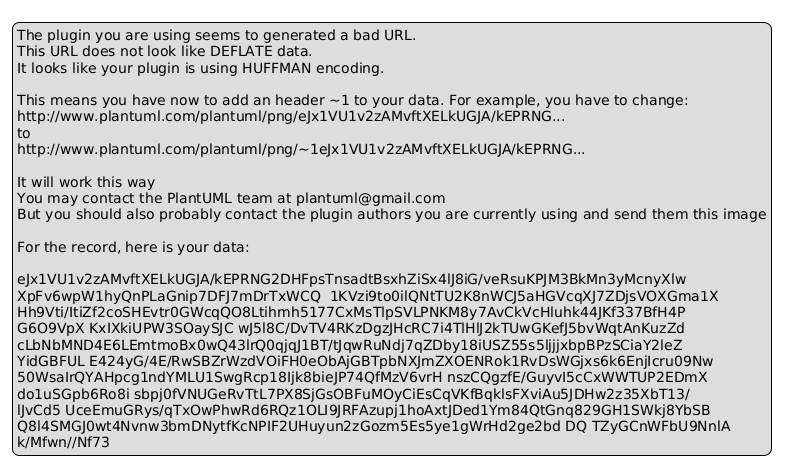
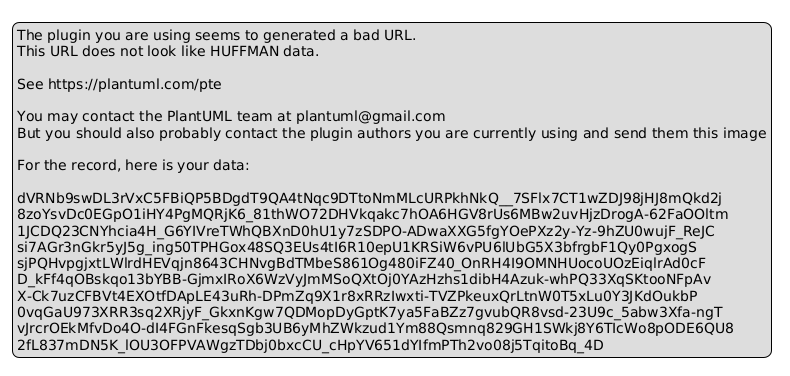
Add generated UML diagrams with fixed encoding

Changed region(s): [[0.0, 0.4973, 1.0, 0.9654], [0.0, 0.2048, 0.9722, 0.4681], [0.0, 0.0293, 0.9722, 0.1755]]

diff --git a/docs/render_diagrams.py b/docs/render_diagrams.py
@@ -1,48 +1,61 @@
 import os
 import requests
-import base64
 import zlib
-from PIL import Image
-import io
+import base64
+from pathlib import Path
+
+def ensure_directory(path):
+    """Ensure a directory exists"""
+    Path(path).mkdir(parents=True, exist_ok=True)
 
 def encode_puml(puml_content):
-    """Encode PlantUML content for web URL"""
-    compressed = zlib.compress(puml_content.encode('utf-8'))
+    """Encode PlantUML content for URL"""
+    # Remove @startuml and @enduml if present
+    puml_content = puml_content.replace("@startuml", "").replace("@enduml", "")
+    
+    # Compress using zlib
+    zlibbed = zlib.compress(puml_content.encode('utf-8'))
+    
+    # Remove zlib header and checksum
+    compressed = zlibbed[2:-4]
+    
+    # Encode to base64
     encoded = base64.b64encode(compressed)
-    return encoded.decode('utf-8')
-
-def get_diagram_url(puml_content):
-    """Get PlantUML web render URL"""
-    encoded = encode_puml(puml_content)
-    # Try multiple PlantUML servers
-    servers = [
-        "https://www.plantuml.com/plantuml/png/",
-        "https://plantuml.org/plantuml/png/",
-        "http://plantuml.org/plantuml/png/"
-    ]
     
-    for server in servers:
-        try:
-            url = f"{server}{encoded}"
-            # Test the URL first
-            response = requests.head(url)
-            if response.status_code == 200:
-                return url
-        except:
-            continue
+    # Make URL-safe
+    url_str = encoded.decode('ascii')
+    url_str = url_str.replace('+', '-')
+    url_str = url_str.replace('/', '_')
     
-    raise Exception("No PlantUML server is responding")
+    return url_str
 
-def verify_image(image_data):
-    """Verify that the image data is a valid PNG and not empty"""
+def render_diagram(puml_content, output_path):
+    """Render a single PlantUML diagram"""
     try:
-        img = Image.open(io.BytesIO(image_data))
-        width, height = img.size
-        # Check if image is not just a blank or error image
-        if width < 50 or height < 50:  # Minimum size threshold
+        # Encode the content
+        encoded = encode_puml(puml_content)
+        
+        # Add the required tilde prefix
+        encoded = "~1" + encoded
+        
+        # Get the PNG from PlantUML server
+        url = f"http://www.plantuml.com/plantuml/png/{encoded}"
+        print(f"Requesting: {url}")
+        
+        response = requests.get(url)
+        
+        if response.status_code == 200 and response.headers.get('content-type', '').startswith('image/'):
+            # Save the image
+            with open(output_path, 'wb') as f:
+                f.write(response.content)
+            return True
+        else:
+            print(f"Error: Server returned status {response.status_code}")
+            print(f"Response content: {response.text[:200]}...")
             return False
-        return True
-    except:
+            
+    except Exception as e:
+        print(f"Error: {str(e)}")
         return False
 
 def render_diagrams():
@@ -55,15 +68,14 @@ def render_diagrams():
         'state-diagrams'
     ]
     
-    # Create images directory if it doesn't exist
-    if not os.path.exists('docs/images'):
-        os.makedirs('docs/images')
+    # Create images directory
+    ensure_directory('docs/images')
     
     success_count = 0
     failure_count = 0
     
     for dir_name in diagram_dirs:
-        dir_path = f'docs/{dir_name}'
+        dir_path = os.path.join('docs', dir_name)
         if not os.path.exists(dir_path):
             print(f"Directory not found: {dir_path}")
             continue
@@ -74,37 +86,22 @@ def render_diagrams():
                 print(f"\nProcessing {puml_path}...")
                 
                 try:
-                    with open(puml_path, 'r') as f:
+                    # Read the PlantUML content
+                    with open(puml_path, 'r', encoding='utf-8') as f:
                         puml_content = f.read()
                     
-                    # Get diagram URL
-                    url = get_diagram_url(puml_content)
-                    print(f"Using URL: {url}")
+                    # Generate output path
+                    png_name = file.replace('.puml', '.png')
+                    output_path = os.path.join('docs/images', png_name)
                     
-                    # Download PNG with retries
-                    max_retries = 3
-                    for attempt in range(max_retries):
-                        try:
-                            response = requests.get(url, timeout=30)
-                            if response.status_code == 200 and verify_image(response.content):
-                                png_name = file.replace('.puml', '.png')
-                                png_path = os.path.join('docs/images', png_name)
-                                
-                                with open(png_path, 'wb') as f:
-                                    f.write(response.content)
-                                
-                                # Verify the written file
-                                if os.path.exists(png_path) and os.path.getsize(png_path) > 1000:
-                                    print(f"✓ Successfully generated {png_path}")
-                                    success_count += 1
-                                    break
-                            else:
-                                print(f"Attempt {attempt + 1}: Invalid image received")
-                        except Exception as e:
-                            print(f"Attempt {attempt + 1} failed: {str(e)}")
-                            if attempt == max_retries - 1:
-                                print(f"× Failed to generate {file}")
-                                failure_count += 1
+                    print(f"Rendering diagram to {output_path}...")
+                    
+                    if render_diagram(puml_content, output_path):
+                        print(f"✓ Successfully generated {output_path}")
+                        success_count += 1
+                    else:
+                        print(f"× Failed to generate {file}")
+                        failure_count += 1
                 
                 except Exception as e:
                     print(f"× Error processing {file}: {str(e)}")
@@ -118,13 +115,13 @@ def render_diagrams():
 
 def update_readme_with_images():
     """Update README.md with links to generated images"""
-    images_dir = 'docs/images'
+    images_dir = os.path.join('docs', 'images')
     if not os.path.exists(images_dir):
         return
         
     images = [f for f in os.listdir(images_dir) if f.endswith('.png')]
     
-    with open('docs/README.md', 'r') as f:
+    with open(os.path.join('docs', 'README.md'), 'r', encoding='utf-8') as f:
         content = f.read()
     
     # Add images section if not present
@@ -135,7 +132,7 @@ def update_readme_with_images():
             content += f"### {name}\n\n"
             content += f"![{name}](images/{image})\n\n"
         
-        with open('docs/README.md', 'w') as f:
+        with open(os.path.join('docs', 'README.md'), 'w', encoding='utf-8') as f:
             f.write(content)
 
 if __name__ == "__main__":
@@ -144,4 +141,4 @@ if __name__ == "__main__":
         update_readme_with_images()
         print("\nDiagrams have been rendered and README.md has been updated.")
     else:
-        print("\nFailed to generate any valid diagrams. Please check the PlantUML syntax and server connectivity.")
+        print("\nFailed to generate any valid diagrams. Please check the PlantUML syntax.")
